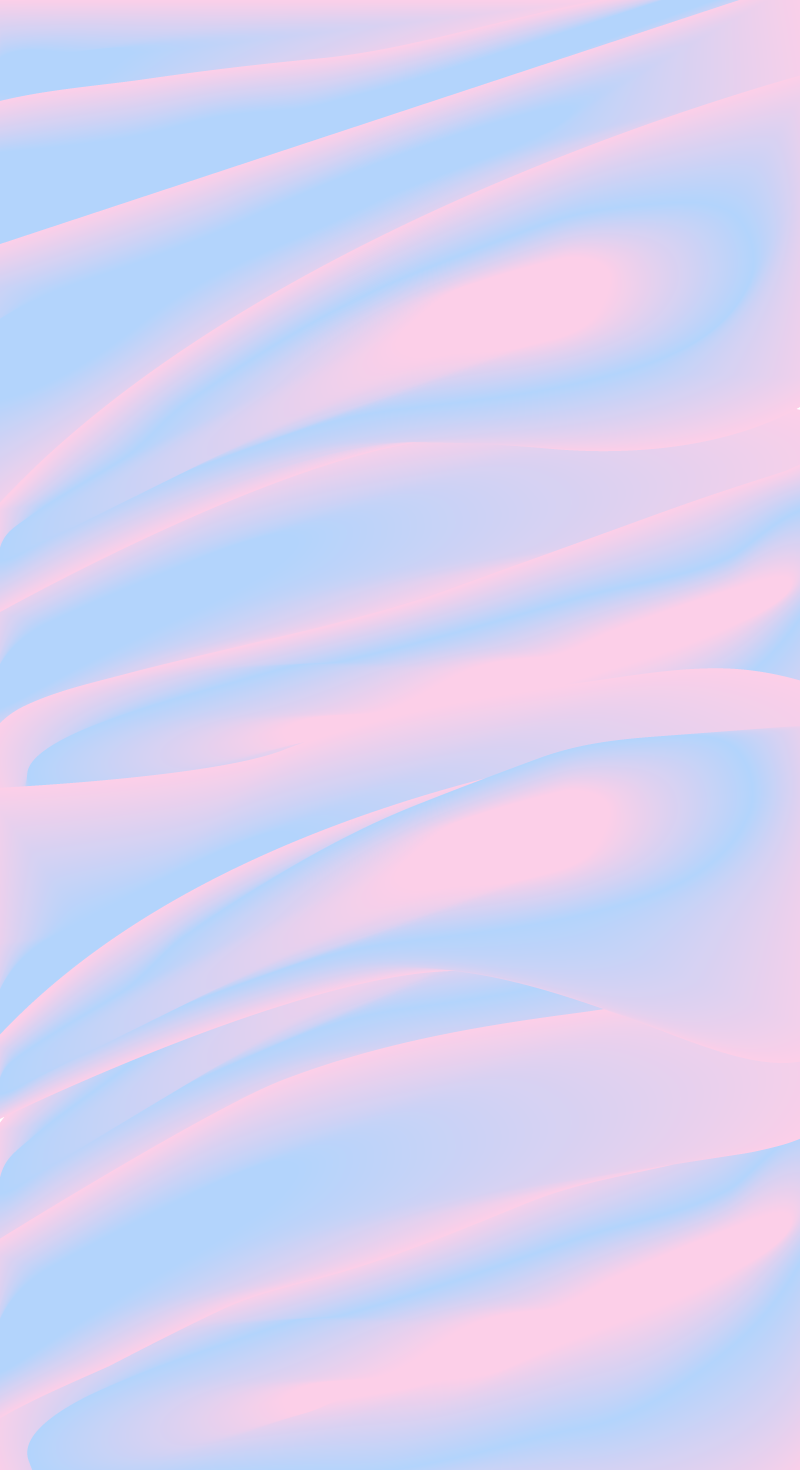
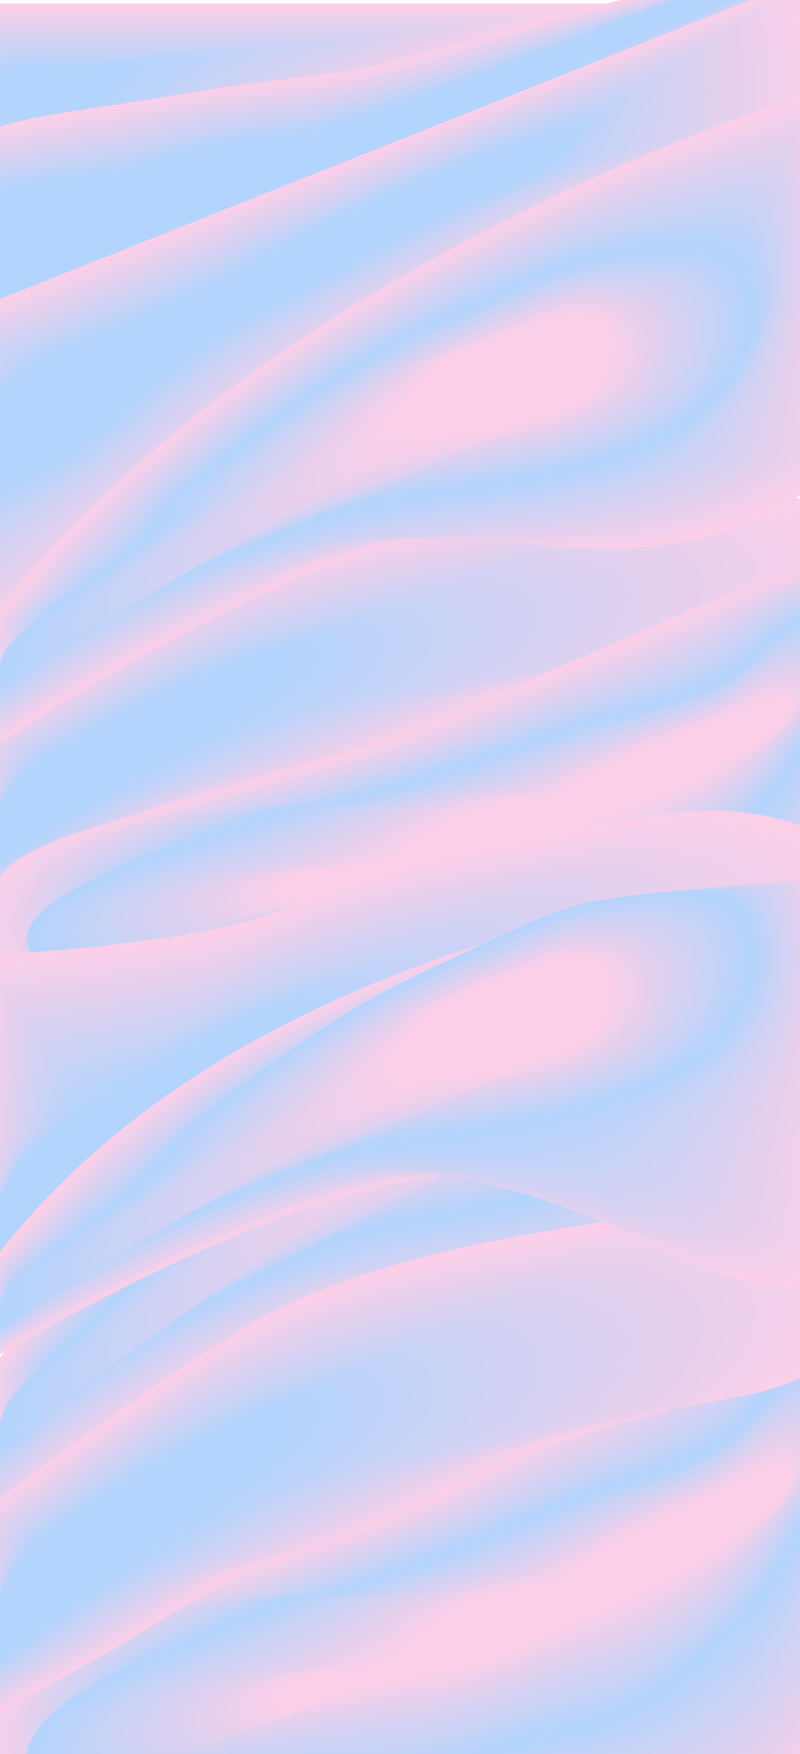
Restructure files

diff --git a/css/main.css b/css/main.css
@@ -1,1 +1,1 @@
-html,body,div{padding:0;margin:0}h1,h2,h3,p{-webkit-margin-before:0;-webkit-margin-after:0}ul{-webkit-margin-before:0;-webkit-margin-after:0;-webkit-padding-start:0}html{font-size:12px}h1 {margin-top:-150px !important}.theanswer{font-family:"Sanchez","Aleo","Helvetica","Arial",sans-serif;font-size:1.2rem}.rnb{font-family:"Circular Std","Karla","Helvetica","Arial",sans-serif;font-size:7rem;line-height:7rem;display:block;text-align:center;color:#facfe9;text-shadow:7px 7px 0 rgba(0,0,0,0.8)}h2,h3,h4,h5,h6{font-family:"Sanchez","Aleo","Helvetica","Arial",sans-serif}p{font-family:"Circular Std","Karla","Helvetica","Arial",sans-serif}a{text-decoration:none;color:inherit}small{font-family:"Sanchez","Aleo","Helvetica","Arial",sans-serif;font-size:.8rem;font-style:italic;font-weight:400i;text-transform:uppercase}input{color:rgba(0,0,0,0.8);font-family:"Sanchez","Aleo","Helvetica","Arial",sans-serif;letter-spacing:2px}.intro{font-size:1.5rem;line-height:2.1rem}input[type="text"]{border:0;outline:0;padding:1em 0 1.2em;margin:40px auto;font-size:1rem;text-align:center;border-radius:5px;-webkit-transition:width 1s, background-color 0.3s;-moz-transition:width 1s, background-color 0.3s;-o-transition:width 1s, background-color 0.3s;transition:width 1s background-color 0.3s;background-color:#bdd9fc;width:50%;cursor:pointer}input[type="text"]:hover{width:54%;transition:width .2s}input[type="text"]::-webkit-input-placeholder{color:rgba(0,0,0,0.8);text-transform:uppercase;font-size:.8rem}input[type="text"]:focus{width:100%;background-color:#facfe9;-webkit-transition:width 1s background-color 0.3s;-moz-transition:width 1s background-color 0.3s;-o-transition:width 1s background-color 0.3s;transition:width 1s background-color 0.3s}.active{width:100% !important;background-color:#facfe9 !important}html{height:100%;width:100%;background:#bdd9fc}body{width:100%;height:100%;color:rgba(0,0,0,0.8);font-family:"Circular Std","Karla","Helvetica","Arial",sans-serif;margin:0;letter-spacing:1px;text-align:center;background:url(../images/satin-bg-mobile.png);background-size:100% 100%}div{box-sizing:border-box}.container,.output{margin:80px auto;width:100%;max-width:420px}.container{padding:2em;background:#fff;color:rgba(0,0,0,0.8);box-shadow:10px 10px 50px rgba(0,0,0,0.1)}.output{display:flex;display:-webkit-box;display:-ms-flexbox;display:-webkit-flex;-webkit-box-pack:center;-ms-flex-pack:center;justify-content:center;-webkit-box-align:center;-ms-flex-align:center;align-items:center}.output>div:not(.loader){background:#facfe9;box-shadow:10px 10px 50px rgba(0,0,0,0.1);padding:0 0 4rem;word-wrap:break-word}.output p{font-family:"Sanchez","Aleo","Helvetica","Arial",sans-serif}.output .answer{color:rgba(0,0,0,0.5);text-transform:uppercase;font-style:normal}.output .track{font-size:2.5rem;font-style:italic;margin:1rem auto 1.5rem}.output .artist{font-size:1rem}.output .image-container{padding:2rem;margin-top:-4rem;display:inline-block}.output .image-container img{box-shadow:10px 10px 30px rgba(0,0,0,0.1);margin:0 2rem}.output .image-container .play-button{border-radius:50%;width:60px;height:60px;background:#facfe9;color:#fff;position:absolute;top:50%;left:50%;transform:translate(-50%, -50%);box-shadow:10px 10px 30px rgba(0,0,0,0.1);display:flex;display:-webkit-box;display:-ms-flexbox;display:-webkit-flex;-webkit-box-pack:center;-ms-flex-pack:center;justify-content:center;-webkit-box-align:center;-ms-flex-align:center;align-items:center;transition:width .2s, height .2s}.output .image-container .play-button:hover{width:64px;height:64px;transition:width .2s, height .2s}.output .image-container .play-button svg{width:30%;height:50%;margin-right:-3px}.alert{padding:2rem;box-shadow:10px 10px 30px rgba(0,0,0,0.1);background:#facfe9}.loader{border:12px solid #fff;border-top:12px solid #facfe9;border-radius:50%;width:60px;height:60px;animation:spin 2s linear infinite;z-index:1}@-webkit-keyframes spin{0%{-webkit-transform:rotate(0deg)}100%{-webkit-transform:rotate(360deg)}}@keyframes spin{0%{transform:rotate(0deg)}100%{transform:rotate(360deg)}}.animate-bottom{position:relative;-webkit-animation-name:animatebottom;-webkit-animation-duration:1s;animation-name:animatebottom;animation-duration:1s}@-webkit-keyframes animatebottom{from{bottom:-30px;opacity:0}to{bottom:0px;opacity:1}}@keyframes animatebottom{from{bottom:-30px;opacity:0}to{bottom:0;opacity:1}}@keyframes zoom{0%{background-size:100% 100%}50%{background-size:105% 105%}100%{background-size:100% 100%}}body{animation:zoom 17s ease infinite}@media screen and (min-width: 768px){html{font-size:13px}body{width:100%;height:100%}.container,.output{width:420px}.container{padding:4em}}@media screen and (min-width: 992px){html{font-size:14px}body{display:flex;display:-webkit-box;display:-ms-flexbox;display:-webkit-flex;-webkit-box-orient:vertical;-webkit-box-direction:normal;-ms-flex-direction:column;flex-direction:column;-webkit-box-pack:center;-ms-flex-pack:center;justify-content:center;-webkit-box-align:center;-ms-flex-align:center;align-items:center;background:url(../images/satin-bg-desktop.png);-webkit-box-orient:horizontal;-webkit-box-direction:normal;-ms-flex-direction:row;flex-direction:row;width:100%;height:100%}.container,.output{width:420px;margin:80px}.container{padding:4em}}
+html,body,div{padding:0;margin:0}h1,h2,h3,p{-webkit-margin-before:0;-webkit-margin-after:0}ul{-webkit-margin-before:0;-webkit-margin-after:0;-webkit-padding-start:0}html{font-size:12px}h1 {margin-top:-150px !important}.theanswer{font-family:"Sanchez","Aleo","Helvetica","Arial",sans-serif;font-size:1.2rem}.rnb{font-family:"Circular Std","Karla","Helvetica","Arial",sans-serif;font-size:7rem;line-height:7rem;display:block;text-align:center;color:#facfe9;text-shadow:7px 7px 0 rgba(0,0,0,0.8)}h2,h3,h4,h5,h6{font-family:"Sanchez","Aleo","Helvetica","Arial",sans-serif}p{font-family:"Circular Std","Karla","Helvetica","Arial",sans-serif}a{text-decoration:none;color:inherit}small{font-family:"Sanchez","Aleo","Helvetica","Arial",sans-serif;font-size:.8rem;font-style:italic;font-weight:400i;text-transform:uppercase}input{color:rgba(0,0,0,0.8);font-family:"Sanchez","Aleo","Helvetica","Arial",sans-serif;letter-spacing:2px}.intro{font-size:1.5rem;line-height:2.1rem}input[type="text"]{border:0;outline:0;padding:1em 0;margin:40px auto;font-size:1rem;text-align:center;border-radius:5px;-webkit-transition:width 1s, background-color 0.3s;-moz-transition:width 1s, background-color 0.3s;-o-transition:width 1s, background-color 0.3s;transition:width 1s background-color 0.3s;background-color:#bdd9fc;width:50%;cursor:pointer}input[type="text"]:hover{width:54%;transition:width .2s}input[type="text"]::-webkit-input-placeholder{color:rgba(0,0,0,0.8);text-transform:uppercase;font-size:.8rem}input[type="text"]:focus{width:100%;background-color:#facfe9;-webkit-transition:width 1s background-color 0.3s;-moz-transition:width 1s background-color 0.3s;-o-transition:width 1s background-color 0.3s;transition:width 1s background-color 0.3s}.active{width:100% !important;background-color:#facfe9 !important}html{height:100%;width:100%;background:#bdd9fc}body{width:100%;height:100%;color:rgba(0,0,0,0.8);font-family:"Circular Std","Karla","Helvetica","Arial",sans-serif;margin:0;letter-spacing:1px;text-align:center;background:url(../images/satin-bg-desktop.png);background-size:100% 100%}.container,.output{margin:0 auto 80px;max-width:400px;padding:2em}.container{background:#fff;color:rgba(0,0,0,0.8);box-shadow:10px 10px 50px rgba(0,0,0,0.1)}.output{display:flex;display:-webkit-box;display:-ms-flexbox;display:-webkit-flex;-webkit-box-pack:center;-ms-flex-pack:center;justify-content:center;-webkit-box-align:center;-ms-flex-align:center;align-items:center}.output>div:not(.loader){background:#facfe9;box-shadow:10px 10px 50px rgba(0,0,0,0.1);padding:0 0 4rem;word-wrap:break-word}.output p{font-family:"Sanchez","Aleo","Helvetica","Arial",sans-serif}.output .answer{color:rgba(0,0,0,0.5);text-transform:uppercase;font-style:normal}.output .track{font-size:2.5rem;font-style:italic;margin:1rem auto 1.5rem}.output .artist{font-size:1rem}.output .image-container{padding:2rem;margin-top:-4rem;display:inline-block}.output .image-container img{box-shadow:10px 10px 30px rgba(0,0,0,0.1);margin:0 2rem}.output .image-container .play-button{border-radius:50%;width:60px;height:60px;background:#facfe9;color:#fff;position:absolute;top:50%;left:50%;transform:translate(-50%, -50%);box-shadow:10px 10px 30px rgba(0,0,0,0.1);display:flex;display:-webkit-box;display:-ms-flexbox;display:-webkit-flex;-webkit-box-pack:center;-ms-flex-pack:center;justify-content:center;-webkit-box-align:center;-ms-flex-align:center;align-items:center;transition:width .2s, height .2s}.output .image-container .play-button:hover{width:64px;height:64px;transition:width .2s, height .2s}.output .image-container .play-button svg{width:30%;height:50%;margin-right:-3px}.alert{padding:2rem;box-shadow:10px 10px 30px rgba(0,0,0,0.1);background:#facfe9}.loader{border:12px solid #fff;border-top:12px solid #facfe9;border-radius:50%;width:60px;height:60px;animation:spin 2s linear infinite;z-index:1}@-webkit-keyframes spin{0%{-webkit-transform:rotate(0deg)}100%{-webkit-transform:rotate(360deg)}}@keyframes spin{0%{transform:rotate(0deg)}100%{transform:rotate(360deg)}}.animate-bottom{position:relative;-webkit-animation-name:animatebottom;-webkit-animation-duration:1s;animation-name:animatebottom;animation-duration:1s}@-webkit-keyframes animatebottom{from{bottom:-30px;opacity:0}to{bottom:0px;opacity:1}}@keyframes animatebottom{from{bottom:-30px;opacity:0}to{bottom:0;opacity:1}}@keyframes zoom{0%{background-size:100% 100%}50%{background-size:105% 105%}100%{background-size:100% 100%}}body{animation:zoom 17s ease infinite}@media screen and (min-width: 768px){html{font-size:13px}body{width:100%;height:100%}.container,.output{width:350px;padding:4em}}@media screen and (min-width: 992px){html{font-size:14px}body{display:flex;display:-webkit-box;display:-ms-flexbox;display:-webkit-flex;-webkit-box-pack:center;-ms-flex-pack:center;justify-content:center;-webkit-box-align:center;-ms-flex-align:center;align-items:center;-webkit-box-orient:horizontal;-webkit-box-direction:normal;-ms-flex-direction:row;flex-direction:row;-webkit-box-flex:wrap;-ms-flex:wrap;flex-wrap:wrap;width:100%;height:100%}.container,.output{margin:80px}.container{width:350px;padding:4em}}

diff --git a/main.js b/main.js
@@ -1,41 +1,108 @@
-const searchUser = document.getElementById('searchUser');
 const apiKey = '81eb011ebdea34eb07af4188c24c4eb9';
-const method = 'user.getInfo';
+const method = 'user.getlovedtracks';
+const user = 'ultralisan';
+const url = `https://ws.audioscrobbler.com/2.0/?method=${method}&user=${user}&api_key=${apiKey}&format=json`;
+const input = document.getElementById('input');
+const output = document.getElementById('output');
+const body = document.querySelector('body');
+let lovedTracks = [];
 
 
-searchUser.addEventListener('change', function(){
-  const searchValue = searchUser.value;
-  getLastFmData(searchValue);
-})
+// Create the function that fetches tracks ultralisan's loved tracks from Last FM
+const getLovedTracks = async (username) => {
+	try {
+		await delay(1);
+		var response = await fetch(url);
+		var json = await response.json();
+		lovedTracks = json.lovedtracks.track;
+		displayTracks(lovedTracks);
+	}	catch(error) {
+		output.innerHTML = 
+			`<p class="animate-bottom alert">
+				Sorry, something went wrong.
+			</p>`;
+	}
+}
 
-getLastFmData();
+// When writing a question, call the getLovedTracks-function
+input.addEventListener('change', function(){
+	
+	const loader = `<div class="loader" id="loader"></div>`;
+	output.innerHTML = loader;
+	
+	input.classList.add("active");
+	
+	if (input.value.includes('?')){
+		getLovedTracks(user);
+	} else {
+		output.innerHTML = 
+			`<p class="animate-bottom alert">
+				You need to write a question :-)
+			</p>`;
+	}
+});
 
+//Create a function that fetches number of listeners for a specific track
+async function getTrackInfo(track, artist) {
+		try {
+			var response = await fetch(`http://ws.audioscrobbler.com/2.0/?method=track.getInfo&api_key=${apiKey}&artist=${artist}&track=${track}&format=json`);
+			var json = await response.json();
+			var listeners = json.track.listeners;
+			//return await json.track.listeners;
+		} catch(error) {
+			output.innerHTML = 
+				`<p class="animate-bottom alert">
+					Sorry, something went wrong.
+				</p>`;
+		}
+	}
 
-function getLastFmData( user = "ultralisan" ) {
-	fetch(`https://ws.audioscrobbler.com/2.0/?method=${method}&user=${user}&api_key=${apiKey}&format=json`)
-	//as soon as the fetch has resolved, 
-	//take the response and turn it into JSON
-    .then((response) => response.json())
-    .then(function(lastFmData){
-		displayLastFmData(lastFmData);
-    })
-    .catch(function(error){
-      console.log(error);
-    })
+//Create a function to randomize and display a song
+async function displayTracks(tracks){
+	
+	//Get random RnB-track from loved tracks
+	let randomTrack = tracks[Math.floor(Math.random()*tracks.length)];
+	
+	//Get number of plays for the track by passing the track name and artist name into the function
+	//var numberOfListeners = 
+	var numberOfListeners = await getTrackInfo(randomTrack.name, randomTrack.artist.name);
+	
+	//Write out the information
+	const htmlBlock = 
+		`<div>
+			<div id="image" class="animate-bottom image-container">
+				<img src="${randomTrack.image[3]['#text']}" alt="${randomTrack.artist.name}">
+				<a href="${randomTrack.url}" target="_blank">
+					<div class="play-button">
+						<svg aria-hidden="true" data-prefix="fas" data-icon="play" role="img" 
+						xmlns="http://www.w3.org/2000/svg" viewBox="0 0 448 512">
+						<path fill="currentColor" d="M424.4 214.7L72.4 6.6C43.8-10.3 0 6.1 0 
+						47.9V464c0 37.5 40.7 60.1 72.4 41.3l352-208c31.4-18.5 31.5-64.1 0-82.6z" 
+						class=""></path></svg>
+					</div>
+				</a>
+			</div>
+
+			<small class="answer">The answer is </small>
+
+			<p class="animate-bottom track"><a href="${randomTrack.url}" 
+			target="_blank">${randomTrack.name}</a></p>
+			
+			<p class="animate-bottom artist">by <a href="${randomTrack.artist.url}" 
+			target="_blank">${randomTrack.artist.name}</a></p>
+
+			<small class="animate-bottom listeners">${numberOfListeners} people already tried this one</small>
+			
+		</div>`;
+	
+	output.innerHTML = htmlBlock;
 }
 
 
-function displayLastFmData(lastFmData){
-	const { user } = lastFmData;
-	console.log(name);
-	const lastFmInfoElement = document.getElementById('lastFmInfo');
-	let lastFmInfo = `
-		<p> ${user.name} from </p>
-		<p> ${user.country} has </p>
-		<p> ${user.playcount} scrobbles </p>
-  	`;
-  lastFmInfoElement.innerHTML = lastFmInfo;
-}
-
-
+//Create a function to delay displaying the information
+function delay(seconds) {
+	return new Promise(
+		resolve => setTimeout(resolve, seconds * 1000)
+	)
+};
 

diff --git a/index.html b/index.html
@@ -5,7 +5,7 @@
 	<meta name="viewport" content="width=device-width, initial-scale=1">
 	<title>The answer is always RnB</title>
 	<link rel=stylesheet type="text/css" href="css/main.css">
-<!--	<link href="https://fonts.googleapis.com/css?family=Karla:400,700|Sanchez:400,400i" rel="stylesheet">-->
+	<link href="https://fonts.googleapis.com/css?family=Karla:400,700|Sanchez:400,400i" rel="stylesheet">
 	<link rel="shortcut icon" type="image/png" href="images/peach-favicon.png">
 </head>
 <body>
@@ -18,16 +18,9 @@
 		</p>
 		<input type="text" placeholder="Ask a question" id="input">
 	</div>
-	<div id="output" class="output animate-bottom">
-
-	</div>
+	<div id="output" class="output animate-bottom"></div>
 	
-<!--
-<blockquote class="embedly-card"><h4><a href="https://www.last.fm/music/Jhen%C3%A9+Aiko/_/Sativa">Jhené Aiko - Sativa</a></h4><p>Watch the video for Sativa by Jhené Aiko for free, and see the artwork, lyrics and similar artists.</p></blockquote>
-<script async src="//cdn.embedly.com/widgets/platform.js" charset="UTF-8"></script>
--->
-
-	<script src="rnb.js"></script>
+	<script src="main.js"></script>
 
 </body>
 </html>

diff --git a/sass/_mobile.scss b/sass/_mobile.scss
@@ -30,10 +30,12 @@ html {
 h1 {
 	margin-top:-150px!important;
 }
+
 .theanswer {
 	font-family: $font__headings;
 	font-size: 1.2rem;
 }
+
 .rnb {
 	font-family: $font__main;
 	font-size:7rem;
@@ -83,7 +85,7 @@ input {
 input[type="text"] {
 	border:0;
 	outline:0;
-	padding:1em 0 1.2em;
+	padding:1em 0;
 	margin:40px auto;
 	font-size:1rem;
 	text-align: center;
@@ -140,22 +142,18 @@ body {
 	margin:0;
 	letter-spacing: 1px;
 	text-align: center;
-	background: url(../images/satin-bg-mobile.png);
+	background: url(../images/satin-bg-desktop.png);
 	background-size:100% 100%;
 }
 
-div {
-	box-sizing: border-box;
-}
 
 .container, .output{
-	margin: 80px auto;
-	width: 100%;
-	max-width:420px;
+	margin: 0 auto 80px;
+	max-width:400px;
+	padding:2em;
 }
 
 .container {
-	padding:2em;
 	background: #fff;
 	color:$color__text--paragraph;
 	box-shadow: $boxshadow__large;

diff --git a/sass/_desktop.scss b/sass/_desktop.scss
@@ -3,19 +3,18 @@ html {
 }
 body {
 	@include flex();
-	@include direction_column();
 	@include content_center();
 	@include items_center();
-	background: url(../images/satin-bg-desktop.png);
 	@include direction_row();
+	@include wrap();
 	width: 100%;
 	height: 100%;
 }
 .container, .output {
-	width:420px;
 	margin: 80px;
 }
 
 .container {
+	width:350px;
 	padding:4em;
 }

diff --git a/sass/main.scss b/sass/main.scss
@@ -1,8 +1,5 @@
 @import "_variables_mixins.scss";
 @import "_mobile.scss";
-//@media screen and (min-width:576px) {
-//	@import "_mobile_landscape.scss";
-//}
 
 @media screen and (min-width:768px) {
 	@import "_tablet.scss";

diff --git a/sass/_variables_mixins.scss b/sass/_variables_mixins.scss
@@ -1,4 +1,3 @@
-
 $color__text--paragraph: rgba(0,0,0,.8);
 $color__theme--1: #facfe9; //pink
 $color__theme--2: #bdd9fc; //blue

diff --git a/sass/_tablet.scss b/sass/_tablet.scss
@@ -9,9 +9,6 @@ body {
 }
 
 .container, .output {
-	width:420px;
-}
-
-.container {
+	width:350px;
 	padding:4em;
 }
